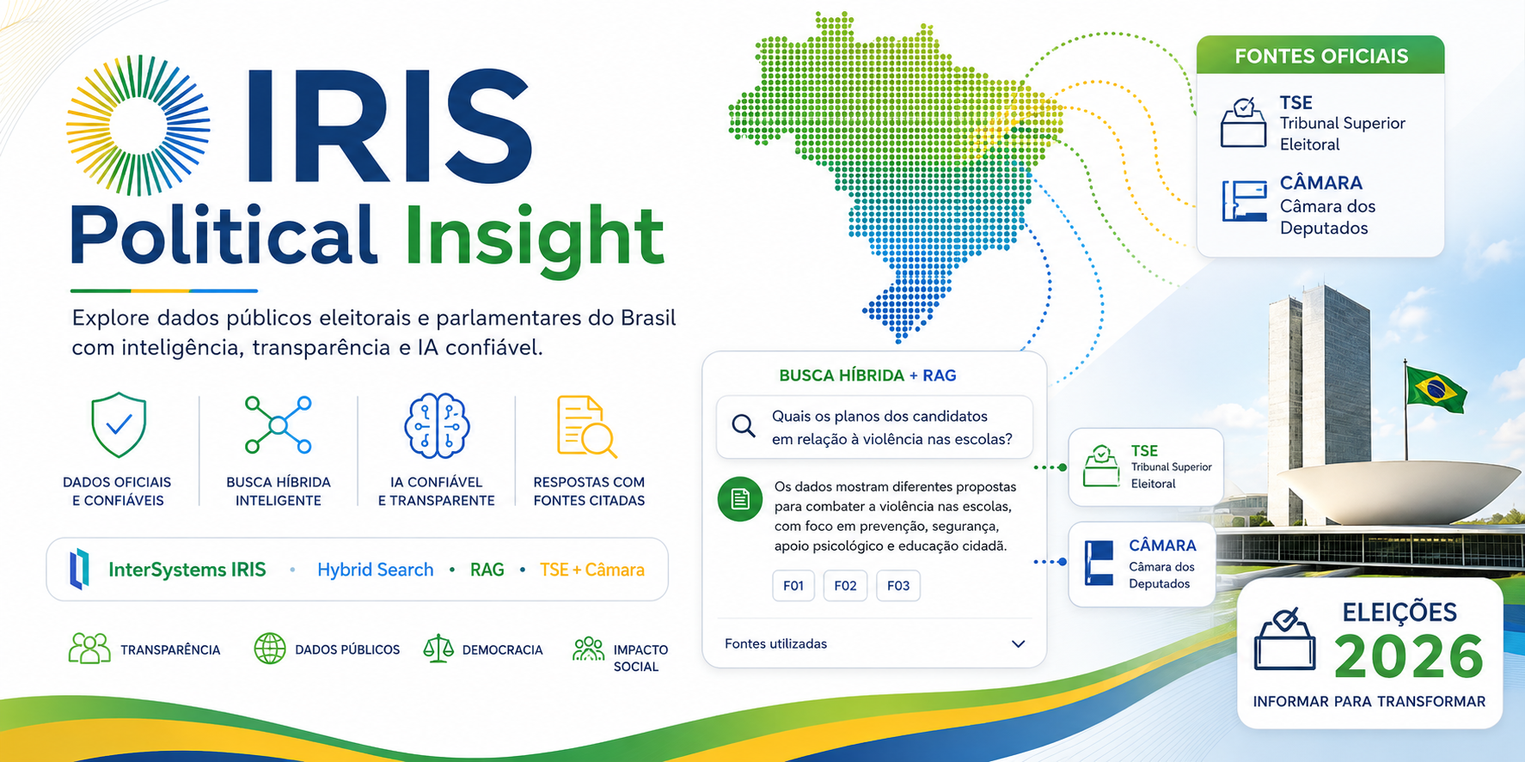
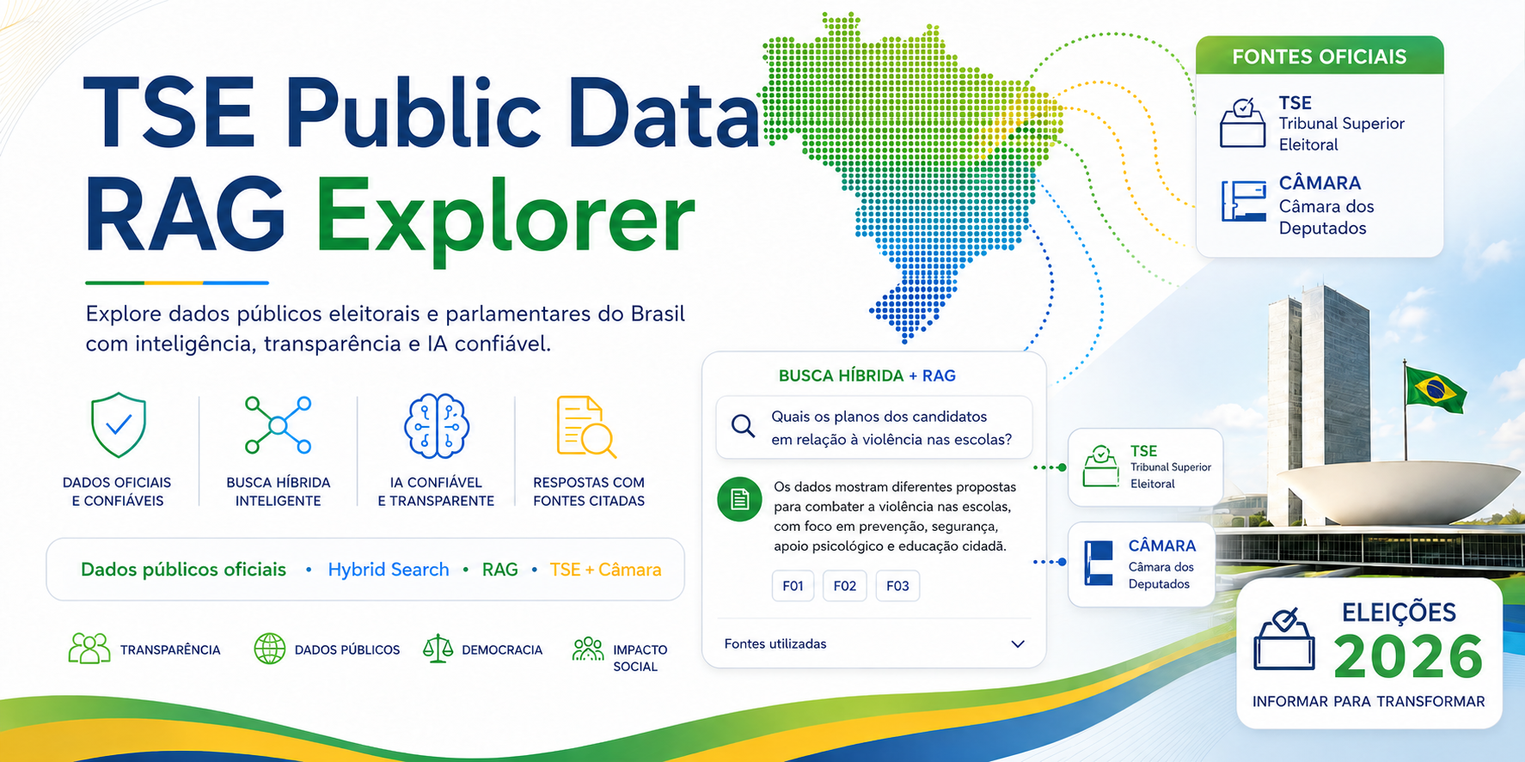
feat: rename project to TSE Public Data RAG Explorer
- Updated README and documentation references from "IRIS Political Insight" to "TSE Public Data RAG Explorer".
- Changed application identifiers and user-agent strings in the codebase.
- Modified ingestion pipeline temporary directory prefix to reflect new project name.
- Adjusted Streamlit app title and page configuration.
- Created new specification document for TSE Public Data RAG Explorer.
- Updated module XML and ObjectScript class documentation to align with new project name.
- Ensured all relevant tests reflect the new project name and functionality.

diff --git a/tests/test_streamlit_app.py b/tests/test_streamlit_app.py
@@ -112,7 +112,7 @@ class FakeStreamlit:
     def caption(self, value: str) -> None:
         self.messages.append(("caption", value))
 
-    def markdown(self, value: str) -> None:
+    def markdown(self, value: str, **_kwargs: Any) -> None:
         self.messages.append(("markdown", value))
 
     def write(self, value: str) -> None:
@@ -242,6 +242,7 @@ def test_main_sends_sidebar_candidate_id_to_ask(monkeypatch, candidate_id) -> No
         {"question": "Quais são as propostas?", "candidateId": candidate_id}
     ]
     assert sidebar_calls == ([] if candidate_id is None else [candidate_id])
+    assert ("title", "TSE Public Data RAG Explorer") in fake_st.messages
 
 
 def test_profile_formats_missing_values_and_rejects_invalid_source() -> None:

diff --git a/app/ui/streamlit_app.py b/app/ui/streamlit_app.py
@@ -380,12 +380,12 @@ def render_answer(result: dict[str, Any]) -> None:
 
 def main() -> None:
     st.set_page_config(
-        page_title="IRIS Political Insight",
+        page_title="TSE Public Data RAG Explorer",
         page_icon="🏛",
         layout="centered",
     )
     st.markdown(APP_THEME_CSS, unsafe_allow_html=True)
-    st.title("IRIS Political Insight")
+    st.title("TSE Public Data RAG Explorer")
     st.caption(
         "Consulte propostas e atuações políticas com respostas baseadas em fontes oficiais "
         "do TSE e da Câmara dos Deputados."

diff --git a/app/ingestion/pipeline.py b/app/ingestion/pipeline.py
@@ -73,7 +73,7 @@ class IngestionPipeline:
         )
         dataset = self.tse.dataset()
         LOGGER.info("TSE dataset discovered dataset_id=%s", self.settings.tse_dataset_id)
-        with tempfile.TemporaryDirectory(prefix="iris-political-") as directory:
+        with tempfile.TemporaryDirectory(prefix="tse-public-data-") as directory:
             root = Path(directory)
             self._tse_candidates(dataset, root)
             self._tse_proposals(dataset, root)

diff --git a/app/rag/prompt.py b/app/rag/prompt.py
@@ -6,7 +6,7 @@ from app.domain import Candidate
 
 from .context import EnrichedEvidence, RagContext
 
-POLICY = """Você é o assistente de pesquisa do IRIS Political Insight.
+POLICY = """Você é o assistente de pesquisa do TSE Public Data RAG Explorer.
 Responda em português do Brasil, diretamente e com linguagem neutra.
 O bloco CANDIDATO SELECIONADO é a identidade autoritativa; nunca deduza outra pessoa
 a partir de nomes de autores citados nos documentos.

diff --git a/app/ingestion/http.py b/app/ingestion/http.py
@@ -30,7 +30,7 @@ class HttpClient:
         self.timeout = (connect_timeout, read_timeout)
         self.session = session or requests.Session()
         self.session.headers.update(
-            {"Accept": "application/json", "User-Agent": "iris-political-insight/1.0"}
+            {"Accept": "application/json", "User-Agent": "tse-public-data-rag-explorer/1.0"}
         )
         self.retrying = Retrying(
             stop=stop_after_attempt(max_attempts),

diff --git a/app/__init__.py b/app/__init__.py
@@ -1,1 +1,1 @@
-"""IRIS Political Insight."""
+"""TSE Public Data RAG Explorer."""

diff --git a/README.md b/README.md
@@ -1,14 +1,14 @@
-# 🗳 IRIS Political Insight
+# 🗳 TSE Public Data RAG Explorer
 
 ## 🌐 Introduction
 
-**IRIS Political Insight** is a platform for querying and analyzing Brazilian public electoral and parliamentary data. Built with **InterSystems IRIS**, **Hybrid Search**, and **RAG (Retrieval-Augmented Generation)**, it integrates, structures, links, indexes, retrieves, and contextualizes official evidence from the **Superior Electoral Court (TSE)** and the **Chamber of Deputies**, with traceability back to the source.
+**TSE Public Data RAG Explorer** is a platform for querying and analyzing Brazilian public electoral and parliamentary data. Built with **InterSystems IRIS**, **Hybrid Search**, and **RAG (Retrieval-Augmented Generation)**, it integrates, structures, links, indexes, retrieves, and contextualizes official evidence from the **Superior Electoral Court (TSE)** and the **Chamber of Deputies**, with traceability back to the source.
 
-![IRIS Political Insight banner](https://raw.githubusercontent.com/Davi-Massaru/rag-iris-brasil-tse/refs/heads/main/banner.png)
+![TSE Public Data RAG Explorer banner](https://raw.githubusercontent.com/Davi-Massaru/tse-public-data-rag-explorer/refs/heads/main/banner.png)
 
 > **Brazil is campaigning for the 2026 General Elections. What if exploring public electoral data were as simple as asking a question?**
 
-[Portuguese version](https://raw.githubusercontent.com/Davi-Massaru/rag-iris-brasil-tse/refs/heads/main/README.pt.md) · [Technical pipeline](https://raw.githubusercontent.com/Davi-Massaru/rag-iris-brasil-tse/refs/heads/main/PIPELINE.pt.md) · [Article in Portuguese](https://raw.githubusercontent.com/Davi-Massaru/rag-iris-brasil-tse/refs/heads/main/ARTICLE.pt.md)
+[Portuguese version](https://raw.githubusercontent.com/Davi-Massaru/tse-public-data-rag-explorer/refs/heads/main/README.pt.md) · [Technical pipeline](https://raw.githubusercontent.com/Davi-Massaru/tse-public-data-rag-explorer/refs/heads/main/PIPELINE.pt.md) · [Article in Portuguese](https://raw.githubusercontent.com/Davi-Massaru/tse-public-data-rag-explorer/refs/heads/main/ARTICLE.pt.md)
 
 On **October 4, 2026**, **158,745,463 voters** will be eligible to participate in Brazil's General Elections, choosing representatives for **six elective offices**: President of the Republic, state governors, the Federal Senate, the Chamber of Deputies, state legislative assemblies, and, in the Federal District, the Legislative Chamber. A **runoff election for president and governors** will be held on **October 25**. Source: [Superior Electoral Court (TSE)](https://www.tse.jus.br/comunicacao/noticias/2026/Julho/mais-de-158-milhoes-de-eleitores-estao-aptos-votar-nas-eleicoes-2026).
 
@@ -144,7 +144,7 @@ Each chunk retains its type, external ID, official URL, candidate, metadata, has
 
 A single command processes TSE candidates, government platforms, Chamber matching and collection, and the RAG index. Downloads are validated, writes are idempotent, chunks use 700 tokens with an overlap of 100, and <code>text-embedding-3-small</code> produces 1,536 dimensions.
 
-See **[PIPELINE.pt.md](https://raw.githubusercontent.com/Davi-Massaru/rag-iris-brasil-tse/refs/heads/main/PIPELINE.pt.md)** for contracts, matching, transactions, pagination, hashes, failures, chunking, and retrieval. The README does not duplicate that documentation.
+See **[PIPELINE.pt.md](https://raw.githubusercontent.com/Davi-Massaru/tse-public-data-rag-explorer/refs/heads/main/PIPELINE.pt.md)** for contracts, matching, transactions, pagination, hashes, failures, chunking, and retrieval. The README does not duplicate that documentation.
 
 ## 🧪 Reproducible demonstration
 
@@ -193,12 +193,9 @@ The repository does not contain screenshots, so no prefabricated answer is prese
 
 ### 1. 📥 Clone
 
-This checkout does not have an <code>origin</code> configured; use the HTTPS URL displayed on the published page:
-
 ~~~powershell
-$repositoryUrl = Read-Host "Repository HTTPS URL"
-git clone $repositoryUrl
-Set-Location tse-iris-rag
+git clone https://github.com/Davi-Massaru/tse-public-data-rag-explorer.git
+Set-Location tse-public-data-rag-explorer
 ~~~
 
 ### 2. 🔧 Configure
@@ -301,13 +298,13 @@ docs/             # specifications, decisions, and audits
 
 ## 📚 Documentation
 
-- [Technical pipeline](https://raw.githubusercontent.com/Davi-Massaru/rag-iris-brasil-tse/refs/heads/main/PIPELINE.pt.md)
-- [Specification](https://raw.githubusercontent.com/Davi-Massaru/rag-iris-brasil-tse/refs/heads/main/docs/SPEC%20%E2%80%94%20IRIS%20Political%20Insight.md)
-- [Implementation plan](https://raw.githubusercontent.com/Davi-Massaru/rag-iris-brasil-tse/refs/heads/main/docs/IMPLEMENTATION_PLAN.md)
-- [TSE + Chamber + IRIS ingestion](https://raw.githubusercontent.com/Davi-Massaru/rag-iris-brasil-tse/refs/heads/main/docs/IMPLEMENTACAO_INGESTAO_TSE_CAMARA_IRIS.md)
-- [IRIS classes and mapping](https://raw.githubusercontent.com/Davi-Massaru/rag-iris-brasil-tse/refs/heads/main/docs/CLASSES_IRIS_E_MAPEAMENTO_INGESTAO_ATUAL.md)
-- [WSGI migration](https://raw.githubusercontent.com/Davi-Massaru/rag-iris-brasil-tse/refs/heads/main/docs/MIGRACAO_FLASK_WAITRESS_PARA_IRIS_WSGI.md)
-- [Technical article](https://raw.githubusercontent.com/Davi-Massaru/rag-iris-brasil-tse/refs/heads/main/ARTICLE.pt.md)
+- [Technical pipeline](https://raw.githubusercontent.com/Davi-Massaru/tse-public-data-rag-explorer/refs/heads/main/PIPELINE.pt.md)
+- [Specification](https://raw.githubusercontent.com/Davi-Massaru/tse-public-data-rag-explorer/refs/heads/main/docs/SPEC%20%E2%80%94%20TSE%20Public%20Data%20RAG%20Explorer.md)
+- [Implementation plan](https://raw.githubusercontent.com/Davi-Massaru/tse-public-data-rag-explorer/refs/heads/main/docs/IMPLEMENTATION_PLAN.md)
+- [TSE + Chamber + IRIS ingestion](https://raw.githubusercontent.com/Davi-Massaru/tse-public-data-rag-explorer/refs/heads/main/docs/IMPLEMENTACAO_INGESTAO_TSE_CAMARA_IRIS.md)
+- [IRIS classes and mapping](https://raw.githubusercontent.com/Davi-Massaru/tse-public-data-rag-explorer/refs/heads/main/docs/CLASSES_IRIS_E_MAPEAMENTO_INGESTAO_ATUAL.md)
+- [WSGI migration](https://raw.githubusercontent.com/Davi-Massaru/tse-public-data-rag-explorer/refs/heads/main/docs/MIGRACAO_FLASK_WAITRESS_PARA_IRIS_WSGI.md)
+- [Technical article](https://raw.githubusercontent.com/Davi-Massaru/tse-public-data-rag-explorer/refs/heads/main/ARTICLE.pt.md)
 
 ## 🏆 InterSystems Contest 2026
 
@@ -325,11 +322,11 @@ The project competes in the **RAG** category of the [InterSystems PT 2026 Contes
 | Explicit pipeline | Ingestion, chunking, vector, retrieval, prompt, and generation | Implemented and documented |
 | Native WSGI | <code>%SYS.Python.WSGI</code> at <code>/api</code> | Implemented; the formal bonus is in the PyProd category |
 
-The development method using OpenAI Codex, specification prompts, human review, and actual corrections is described in [ARTICLE.pt.md](https://raw.githubusercontent.com/Davi-Massaru/rag-iris-brasil-tse/refs/heads/main/ARTICLE.pt.md).
+The development method using OpenAI Codex, specification prompts, human review, and actual corrections is described in [ARTICLE.pt.md](https://raw.githubusercontent.com/Davi-Massaru/tse-public-data-rag-explorer/refs/heads/main/ARTICLE.pt.md).
 
 ## ⚖ License and responsibility
 
-Code released under the [MIT License](https://raw.githubusercontent.com/Davi-Massaru/rag-iris-brasil-tse/refs/heads/main/LICENSE).
+Code released under the [MIT License](https://raw.githubusercontent.com/Davi-Massaru/tse-public-data-rag-explorer/refs/heads/main/LICENSE).
 
 Independent project, with no affiliation with the TSE, the Chamber, candidacies, or political parties. It organizes public information and does not replace official sources or the voter's judgment.
 

diff --git a/README.pt.md b/README.pt.md
@@ -1,14 +1,14 @@
-# 🗳 IRIS Political Insight
+# 🗳 TSE Public Data RAG Explorer
 
 ## 🌐 Introdução
 
-O **IRIS Political Insight** é uma plataforma de consulta e análise de dados públicos eleitorais e parlamentares brasileiros. Construída com **InterSystems IRIS**, **Hybrid Search** e **RAG (Retrieval-Augmented Generation)**, ela integra, estrutura, relaciona, indexa, recupera e contextualiza evidências oficiais do **Tribunal Superior Eleitoral (TSE)** e da **Câmara dos Deputados**, com rastreabilidade até a fonte.
+O **TSE Public Data RAG Explorer** é uma plataforma de consulta e análise de dados públicos eleitorais e parlamentares brasileiros. Construída com **InterSystems IRIS**, **Hybrid Search** e **RAG (Retrieval-Augmented Generation)**, ela integra, estrutura, relaciona, indexa, recupera e contextualiza evidências oficiais do **Tribunal Superior Eleitoral (TSE)** e da **Câmara dos Deputados**, com rastreabilidade até a fonte.
 
-![Banner do IRIS Political Insight](https://raw.githubusercontent.com/Davi-Massaru/rag-iris-brasil-tse/refs/heads/main/banner.png)
+![Banner do TSE Public Data RAG Explorer](https://raw.githubusercontent.com/Davi-Massaru/tse-public-data-rag-explorer/refs/heads/main/banner.png)
 
 > **O Brasil está em campanha para as Eleições Gerais de 2026. E se explorar dados eleitorais públicos fosse tão simples quanto fazer uma pergunta?**
 
-[English version](https://raw.githubusercontent.com/Davi-Massaru/rag-iris-brasil-tse/refs/heads/main/README.md) · [Pipeline técnica](https://raw.githubusercontent.com/Davi-Massaru/rag-iris-brasil-tse/refs/heads/main/PIPELINE.pt.md) · [Artigo em português](https://raw.githubusercontent.com/Davi-Massaru/rag-iris-brasil-tse/refs/heads/main/ARTICLE.pt.md)
+[English version](https://raw.githubusercontent.com/Davi-Massaru/tse-public-data-rag-explorer/refs/heads/main/README.md) · [Pipeline técnica](https://raw.githubusercontent.com/Davi-Massaru/tse-public-data-rag-explorer/refs/heads/main/PIPELINE.pt.md) · [Artigo em português](https://raw.githubusercontent.com/Davi-Massaru/tse-public-data-rag-explorer/refs/heads/main/ARTICLE.pt.md)
 
 Em **4 de outubro de 2026**, **158.745.463 eleitoras e eleitores** estarão aptos a participar das Eleições Gerais no Brasil, escolhendo representantes para **seis cargos eletivos**: Presidência da República, governos estaduais, Senado Federal, Câmara dos Deputados, assembleias legislativas e, no Distrito Federal, a Câmara Legislativa. Com **segundo turno para presidente da República e governadores** será realizado em **25 de outubro**. Fonte: [Tribunal Superior Eleitoral (TSE)](https://www.tse.jus.br/comunicacao/noticias/2026/Julho/mais-de-158-milhoes-de-eleitores-estao-aptos-votar-nas-eleicoes-2026).
 
@@ -144,7 +144,7 @@ Cada chunk conserva tipo, ID externo, URL oficial, candidato, metadados, hash e 
 
 Um comando executa candidatos do TSE, propostas de governo, associação/coleta da Câmara e índice RAG. Downloads são validados, gravações são idempotentes, chunks usam 700 tokens com overlap 100 e <code>text-embedding-3-small</code> produz 1.536 dimensões.
 
-Consulte **[PIPELINE.pt.md](https://raw.githubusercontent.com/Davi-Massaru/rag-iris-brasil-tse/refs/heads/main/PIPELINE.pt.md)** para contratos, matching, transações, paginação, hashes, falhas, chunking e retrieval. O README não duplica essa documentação.
+Consulte **[PIPELINE.pt.md](https://raw.githubusercontent.com/Davi-Massaru/tse-public-data-rag-explorer/refs/heads/main/PIPELINE.pt.md)** para contratos, matching, transações, paginação, hashes, falhas, chunking e retrieval. O README não duplica essa documentação.
 
 ## 🧪 Demonstração reproduzível
 
@@ -193,12 +193,9 @@ O repositório não contém screenshots; por isso, não apresentamos uma respost
 
 ### 1. 📥 Clonar
 
-Este checkout não possui <code>origin</code> configurado; use a URL HTTPS exibida na página publicada:
-
 ~~~powershell
-$repositoryUrl = Read-Host "URL HTTPS do repositório"
-git clone $repositoryUrl
-Set-Location tse-iris-rag
+git clone https://github.com/Davi-Massaru/tse-public-data-rag-explorer.git
+Set-Location tse-public-data-rag-explorer
 ~~~
 
 ### 2. 🔧 Configurar
@@ -301,13 +298,13 @@ docs/             # especificações, decisões e auditorias
 
 ## 📚 Documentação
 
-- [Pipeline técnica](https://raw.githubusercontent.com/Davi-Massaru/rag-iris-brasil-tse/refs/heads/main/PIPELINE.pt.md)
-- [Especificação](https://raw.githubusercontent.com/Davi-Massaru/rag-iris-brasil-tse/refs/heads/main/docs/SPEC%20%E2%80%94%20IRIS%20Political%20Insight.md)
-- [Plano de implementação](https://raw.githubusercontent.com/Davi-Massaru/rag-iris-brasil-tse/refs/heads/main/docs/IMPLEMENTATION_PLAN.md)
-- [Ingestão TSE + Câmara + IRIS](https://raw.githubusercontent.com/Davi-Massaru/rag-iris-brasil-tse/refs/heads/main/docs/IMPLEMENTACAO_INGESTAO_TSE_CAMARA_IRIS.md)
-- [Classes IRIS e mapeamento](https://raw.githubusercontent.com/Davi-Massaru/rag-iris-brasil-tse/refs/heads/main/docs/CLASSES_IRIS_E_MAPEAMENTO_INGESTAO_ATUAL.md)
-- [Migração WSGI](https://raw.githubusercontent.com/Davi-Massaru/rag-iris-brasil-tse/refs/heads/main/docs/MIGRACAO_FLASK_WAITRESS_PARA_IRIS_WSGI.md)
-- [Artigo técnico](https://raw.githubusercontent.com/Davi-Massaru/rag-iris-brasil-tse/refs/heads/main/ARTICLE.pt.md)
+- [Pipeline técnica](https://raw.githubusercontent.com/Davi-Massaru/tse-public-data-rag-explorer/refs/heads/main/PIPELINE.pt.md)
+- [Especificação](https://raw.githubusercontent.com/Davi-Massaru/tse-public-data-rag-explorer/refs/heads/main/docs/SPEC%20%E2%80%94%20TSE%20Public%20Data%20RAG%20Explorer.md)
+- [Plano de implementação](https://raw.githubusercontent.com/Davi-Massaru/tse-public-data-rag-explorer/refs/heads/main/docs/IMPLEMENTATION_PLAN.md)
+- [Ingestão TSE + Câmara + IRIS](https://raw.githubusercontent.com/Davi-Massaru/tse-public-data-rag-explorer/refs/heads/main/docs/IMPLEMENTACAO_INGESTAO_TSE_CAMARA_IRIS.md)
+- [Classes IRIS e mapeamento](https://raw.githubusercontent.com/Davi-Massaru/tse-public-data-rag-explorer/refs/heads/main/docs/CLASSES_IRIS_E_MAPEAMENTO_INGESTAO_ATUAL.md)
+- [Migração WSGI](https://raw.githubusercontent.com/Davi-Massaru/tse-public-data-rag-explorer/refs/heads/main/docs/MIGRACAO_FLASK_WAITRESS_PARA_IRIS_WSGI.md)
+- [Artigo técnico](https://raw.githubusercontent.com/Davi-Massaru/tse-public-data-rag-explorer/refs/heads/main/ARTICLE.pt.md)
 
 ## 🏆 Concurso InterSystems 2026
 
@@ -325,11 +322,11 @@ O projeto concorre no tópico **RAG** do [Concurso InterSystems PT 2026](https:/
 | Pipeline explícito | Ingestão, chunking, vetor, retrieval, prompt e geração | Implementado e documentado |
 | WSGI nativo | <code>%SYS.Python.WSGI</code> em <code>/api</code> | Implementado; o bônus formal está no tópico PyProd |
 
-O método de desenvolvimento com OpenAI Codex, prompts-especificação, revisão humana e correções reais está em [ARTICLE.pt.md](https://raw.githubusercontent.com/Davi-Massaru/rag-iris-brasil-tse/refs/heads/main/ARTICLE.pt.md).
+O método de desenvolvimento com OpenAI Codex, prompts-especificação, revisão humana e correções reais está em [ARTICLE.pt.md](https://raw.githubusercontent.com/Davi-Massaru/tse-public-data-rag-explorer/refs/heads/main/ARTICLE.pt.md).
 
 ## ⚖ Licença e responsabilidade
 
-Código sob [licença MIT](https://raw.githubusercontent.com/Davi-Massaru/rag-iris-brasil-tse/refs/heads/main/LICENSE).
+Código sob [licença MIT](https://raw.githubusercontent.com/Davi-Massaru/tse-public-data-rag-explorer/refs/heads/main/LICENSE).
 
 Projeto independente, sem vínculo com TSE, Câmara, candidaturas ou partidos. Organiza informações públicas e não substitui fontes oficiais nem o julgamento do eleitor.
 

diff --git a/ARTICLE.md b/ARTICLE.md
@@ -1,4 +1,4 @@
-# Brazil's 2026 Election: Turning Public Records into Grounded Answers with InterSystems IRIS, RAG, and Hybrid Search
+# TSE Public Data RAG Explorer: Turning Public Records into Grounded Answers with RAG and Hybrid Search
 
 > **Publication note:** replace **[OPEN EXCHANGE LINK]** with the published application URL before reusing this article. The repository does not contain that external URL, so it is intentionally not fabricated here.
 
@@ -10,7 +10,7 @@ It is August 2026, and Brazil's general election campaign is underway. On Octobe
 
 This timing matters. Public information is not an abstract policy topic when millions of people are trying to understand candidacies, proposals, and public careers. Brazil makes a significant amount of electoral and legislative data available, yet the records remain spread across files, APIs, identifiers, and government portals.
 
-That is the setting in which we built **IRIS Political Insight**.
+That is the setting in which we built **TSE Public Data RAG Explorer**.
 
 ## Plenty of open data, but a difficult path to an answer
 
@@ -26,7 +26,7 @@ We did not want another set of filters, and we did not want a language model ans
 
 ## A natural-language layer over official evidence
 
-IRIS Political Insight is better described as a public-data intelligence platform than as an election chatbot. Its job is to:
+TSE Public Data RAG Explorer is better described as a public-data intelligence platform than as an election chatbot. Its job is to:
 
 **collect → validate → link → persist → index → retrieve → contextualize → explain.**
 
@@ -272,6 +272,6 @@ Brazil is also a useful international case study: Open Government Data, identity
 
 Brazil's 2026 general election is happening now. The public data exists now. The difficulty of turning it into explorable information exists now as well.
 
-IRIS Political Insight offers one concrete bridge: TSE and Chamber data as official sources; InterSystems IRIS as the multimodel and vector core; Hybrid Search as the retrieval strategy; RAG as grounded synthesis; and official links as the path back to evidence.
+TSE Public Data RAG Explorer offers one concrete bridge: TSE and Chamber data as official sources; InterSystems IRIS as the multimodel and vector core; Hybrid Search as the retrieval strategy; RAG as grounded synthesis; and official links as the path back to evidence.
 
 Technology does not choose for the voter. It can make public information less distant — one question at a time.

diff --git a/docs/MIGRACAO_FLASK_WAITRESS_PARA_IRIS_WSGI.md b/docs/MIGRACAO_FLASK_WAITRESS_PARA_IRIS_WSGI.md
@@ -1,6 +1,6 @@
 # TASK — Migrar Flask/Waitress para WSGI nativo do InterSystems IRIS
 
-> Projeto: **IRIS Political Insight**  
+> Projeto: **TSE Public Data RAG Explorer**
 > Objetivo deste documento: instruir um agente de código a alterar o repositório atual.  
 > Data de referência técnica: **2026-08-23**.
 
@@ -166,7 +166,7 @@ O módulo já existe:
 
 ```xml
 <Module>
-  <Name>iris-political-insight</Name>
+  <Name>tse-public-data-rag-explorer</Name>
   <Version>1.0.0</Version>
   <Description>Dados políticos oficiais, busca híbrida e RAG no InterSystems IRIS</Description>
   <Packaging>module</Packaging>
@@ -384,9 +384,9 @@ Estrutura alvo aproximada:
 ```xml
 <?xml version="1.0" encoding="UTF-8"?>
 <Export generator="Cache" version="25">
-  <Document name="iris-political-insight.ZPM">
+  <Document name="tse-public-data-rag-explorer.ZPM">
     <Module>
-      <Name>iris-political-insight</Name>
+      <Name>tse-public-data-rag-explorer</Name>
       <Version>1.0.0</Version>
       <Description>Dados políticos oficiais, busca híbrida e RAG no InterSystems IRIS</Description>
       <Packaging>module</Packaging>
@@ -399,18 +399,18 @@ Estrutura alvo aproximada:
       <!-- Ajustar paths depois de inspecionar a árvore real do projeto. -->
       <FileCopy
         Name="app/"
-        Target="${libdir}iris-political-insight/app/"
+        Target="${libdir}tse-public-data-rag-explorer/app/"
       />
 
       <FileCopy
         Name="wsgi_app.py"
-        Target="${libdir}iris-political-insight/"
+        Target="${libdir}tse-public-data-rag-explorer/"
       />
 
       <WSGIApplication
         Url="/api"
-        Description="IRIS Political Insight Flask API"
-        WSGIAppLocation="${libdir}iris-political-insight/"
+        Description="TSE Public Data RAG Explorer Flask API"
+        WSGIAppLocation="${libdir}tse-public-data-rag-explorer/"
         WSGIAppName="wsgi_app"
         WSGICallable="app"
       />
@@ -494,7 +494,7 @@ O padrão de referência é:
 ```objectscript
 zn "%SYS"
 Kill props
-Set props("Description") = "IRIS Political Insight Flask API"
+Set props("Description") = "TSE Public Data RAG Explorer Flask API"
 Set props("WSGIAppLocation") = "/path/to/flaskapp"
 Set props("WSGIAppName") = "wsgi_app"
 Set props("WSGICallable") = "app"

diff --git a/ARTICLE.pt.md b/ARTICLE.pt.md
@@ -1,4 +1,4 @@
-# Eleições 2026: do dado público à pergunta em linguagem natural com InterSystems IRIS, RAG e Hybrid Search
+# TSE Public Data RAG Explorer: do dado público à pergunta em linguagem natural com RAG e Hybrid Search
 
 > **Nota para publicação:** antes de enviar à Developer Community, substitua o marcador **[LINK OPEN EXCHANGE]** pelo endereço real da aplicação e inclua os perfis dos integrantes, se houver. O repositório não contém essas informações e este artigo não as inventa.
 
@@ -12,7 +12,7 @@ Agosto de 2026. A propaganda eleitoral oficial está autorizada desde o dia 16. 
 
 É um momento em que informação pública deixa de ser assunto abstrato. Milhões de pessoas tentam compreender candidaturas, propostas e trajetórias enquanto os registros relevantes continuam distribuídos em arquivos, APIs e portais diferentes.
 
-Foi nesse contexto que construímos o **IRIS Political Insight**.
+Foi nesse contexto que construímos o **TSE Public Data RAG Explorer**.
 
 ## Nunca tivemos tantos dados. Encontrá-los ainda é difícil.
 
@@ -278,6 +278,6 @@ O caso brasileiro também é relevante fora do Brasil. Ele mostra como Open Gove
 
 As Eleições Gerais de 2026 acontecem agora. Os dados públicos existem agora. A dificuldade de transformá-los em informação explorável também existe agora.
 
-IRIS Political Insight mostra uma maneira concreta de aproximar esses mundos: TSE e Câmara como fontes; InterSystems IRIS como núcleo multimodelo e vetorial; Hybrid Search como estratégia de recuperação; RAG como mecanismo de síntese fundamentada; e fontes oficiais como caminho de volta à evidência.
+TSE Public Data RAG Explorer mostra uma maneira concreta de aproximar esses mundos: TSE e Câmara como fontes; InterSystems IRIS como núcleo multimodelo e vetorial; Hybrid Search como estratégia de recuperação; RAG como mecanismo de síntese fundamentada; e fontes oficiais como caminho de volta à evidência.
 
 A tecnologia não escolhe por ninguém. Ela pode, porém, tornar a informação pública menos distante — uma pergunta de cada vez.

diff --git a/docs/SPEC — TSE Public Data RAG Explorer.md b/docs/SPEC — TSE Public Data RAG Explorer.md
@@ -1,8 +1,8 @@
-# SPEC — IRIS Political Insight
+# SPEC — TSE Public Data RAG Explorer
 
 ## 1. Visão do produto
 
-**IRIS Political Insight** é uma aplicação RAG construída sobre InterSystems IRIS para consultar informações públicas e oficiais sobre candidatos e políticos brasileiros.
+**TSE Public Data RAG Explorer** é uma aplicação RAG construída sobre InterSystems IRIS para consultar informações públicas e oficiais sobre candidatos e políticos brasileiros.
 
 O sistema deverá consolidar dados eleitorais e históricos políticos provenientes de fontes oficiais e permitir consultas em linguagem natural com respostas fundamentadas nas evidências recuperadas.
 
@@ -703,7 +703,7 @@ Para o MVP utilizar Streamlit.
 Barra lateral e tela principal:
 
 ```text
-┌ Barra lateral ────────────────────┐  IRIS Political Insight
+┌ Barra lateral ────────────────────┐  TSE Public Data RAG Explorer
 │ Perfil do candidato selecionado  │  Consulte propostas e atuações políticas...
 │ nome, cargo, UF, partido,        │
 │ número, vínculo e fonte oficial  │  [Candidato ▼]
@@ -743,7 +743,7 @@ Fonte: Câmara dos Deputados
 # 21. Estrutura do projeto
 
 ```text
-iris-political-insight/
+tse-public-data-rag-explorer/
 │
 ├── docker-compose.yml
 ├── Dockerfile
